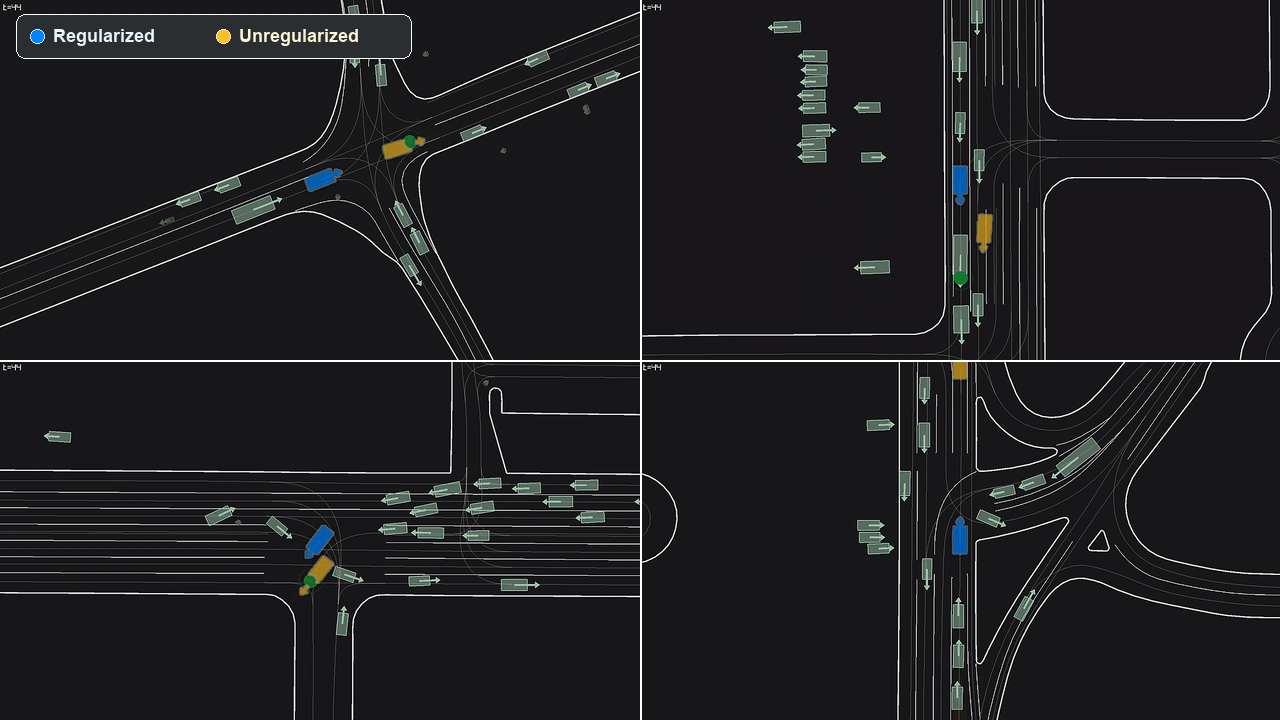
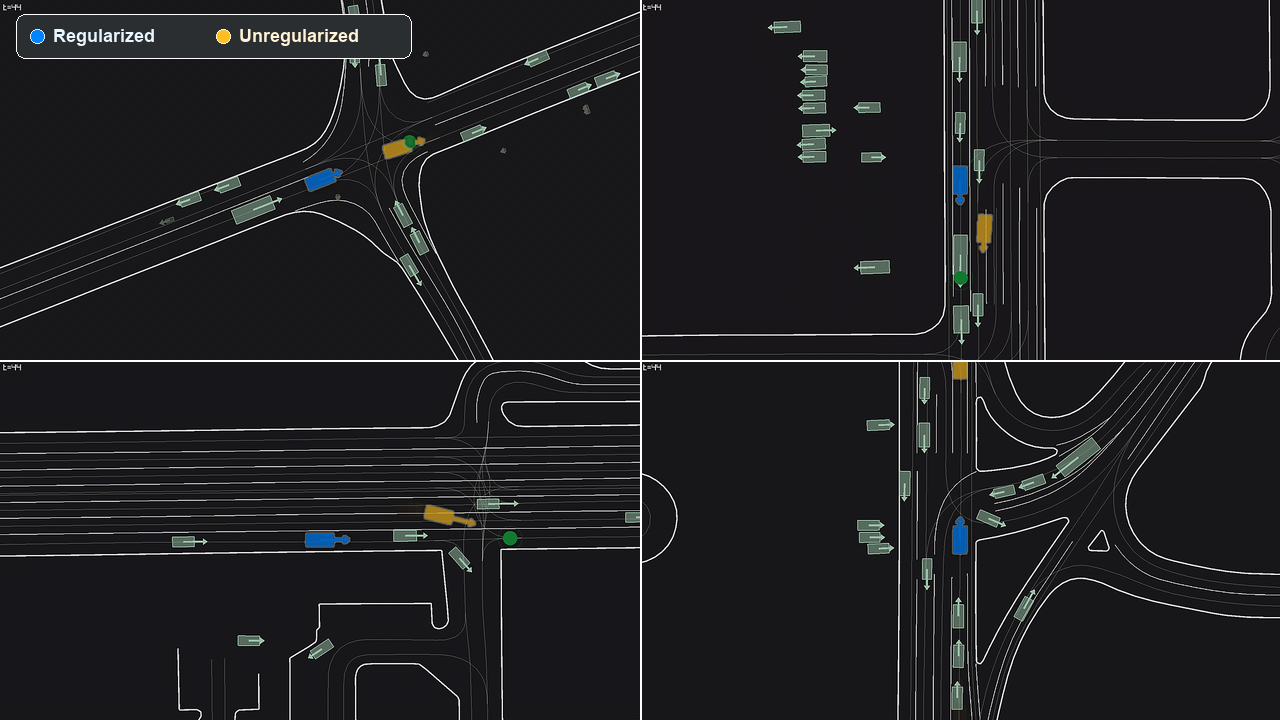
Expand rollout overlays and add paper figure exports

diff --git a/index.html b/index.html
@@ -89,8 +89,17 @@
         <div class="section-heading">
           <p class="eyebrow">Rollouts</p>
           <div>
-            <div class="media-title-row">
-              <h2>Overlay rollouts compare regularized and unregularized behavior in the same view.</h2>
+            <p class="media-explainer">
+              These videos align paired held-out human-replay scenarios so the
+              regularized policy and unregularized policy can be compared in a
+              shared camera view. In each rollout, the learned ego agent is
+              goal-conditioned: the blue vehicle is controlled by the policy,
+              the green circle marks its goal, and the other green vehicles
+              replay recorded human trajectories. Both policies use the same
+              minimal reward: +1 when the goal indicator I[goal] is true, and
+              -1 for off-road or collision events.
+            </p>
+            <div class="media-actions">
               <button
                 class="rollout-toggle"
                 type="button"
@@ -103,21 +112,11 @@
                 <span data-collapse-label>View paired GIF comparisons</span>
               </button>
             </div>
-            <p class="media-explainer">
-              These videos align paired held-out human-replay scenarios so the
-              regularized policy and unregularized policy can be compared in a
-              shared camera view. In each rollout, the learned ego agent is
-              goal-conditioned: the blue vehicle is controlled by the policy,
-              the green circle marks its goal, and the other green vehicles
-              replay recorded human trajectories. Both policies use the same
-              minimal reward: +1 when the goal indicator I[goal] is true, and
-              -1 for off-road or collision events.
-            </p>
           </div>
         </div>
 
-        <div class="overlay-rollout-showcase" aria-label="Aligned rollout overlay videos">
-          <div class="overlay-video-grid" aria-label="Single-scene aligned overlays">
+        <div class="overlay-rollout-showcase" aria-label="Aligned policy videos">
+          <div class="overlay-video-grid" aria-label="Single-scene aligned policy comparisons">
             <figure class="overlay-card">
               <video
                 src="assets/overlay-rollouts/rollout-overlay-312.mp4"
@@ -128,7 +127,7 @@
                 playsinline
                 controls
               ></video>
-              <figcaption>Example 312: cross-traffic negotiation.</figcaption>
+              <figcaption>Cross-traffic negotiation.</figcaption>
             </figure>
             <figure class="overlay-card">
               <video
@@ -140,7 +139,7 @@
                 playsinline
                 controls
               ></video>
-              <figcaption>Example 420: dense queue interaction.</figcaption>
+              <figcaption>Dense queue interaction.</figcaption>
             </figure>
             <figure class="overlay-card">
               <video
@@ -152,7 +151,7 @@
                 playsinline
                 controls
               ></video>
-              <figcaption>Example 460: waiting in traffic.</figcaption>
+              <figcaption>Waiting in traffic.</figcaption>
             </figure>
             <figure class="overlay-card">
               <video
@@ -164,7 +163,55 @@
                 playsinline
                 controls
               ></video>
-              <figcaption>Example 102: awkward behavior avoided.</figcaption>
+              <figcaption>Awkward behavior avoided.</figcaption>
+            </figure>
+            <figure class="overlay-card">
+              <video
+                src="assets/overlay-rollouts/rollout-overlay-244.mp4"
+                poster="assets/overlay-rollouts/rollout-overlay-244.png"
+                autoplay
+                muted
+                loop
+                playsinline
+                controls
+              ></video>
+              <figcaption>Room left around replayed traffic.</figcaption>
+            </figure>
+            <figure class="overlay-card">
+              <video
+                src="assets/overlay-rollouts/rollout-overlay-300.mp4"
+                poster="assets/overlay-rollouts/rollout-overlay-300.png"
+                autoplay
+                muted
+                loop
+                playsinline
+                controls
+              ></video>
+              <figcaption>Measured progress near the goal.</figcaption>
+            </figure>
+            <figure class="overlay-card">
+              <video
+                src="assets/overlay-rollouts/rollout-overlay-380.mp4"
+                poster="assets/overlay-rollouts/rollout-overlay-380.png"
+                autoplay
+                muted
+                loop
+                playsinline
+                controls
+              ></video>
+              <figcaption>Cautious timing through a busy interaction.</figcaption>
+            </figure>
+            <figure class="overlay-card">
+              <video
+                src="assets/overlay-rollouts/rollout-overlay-792.mp4"
+                poster="assets/overlay-rollouts/rollout-overlay-792.png"
+                autoplay
+                muted
+                loop
+                playsinline
+                controls
+              ></video>
+              <figcaption>Patient interaction around nearby vehicles.</figcaption>
             </figure>
           </div>
         </div>
@@ -174,15 +221,15 @@
             <div class="comparison-pair">
               <figure class="comparison-panel">
                 <span class="comparison-label comparison-label-spiced">Regularized</span>
-                <img src="comparison_selected_2/312_reg.gif" alt="Regularized policy in paired example 312.">
+                <img src="comparison_selected_2/312_reg.gif" alt="Regularized policy in paired rollout.">
               </figure>
               <figure class="comparison-panel">
                 <span class="comparison-label comparison-label-unreg">Unregularized</span>
-                <img src="comparison_selected_2/312_unreg.gif" alt="Unregularized policy in paired example 312.">
+                <img src="comparison_selected_2/312_unreg.gif" alt="Unregularized policy in paired rollout.">
               </figure>
             </div>
             <div class="comparison-body">
-              <p class="comparison-kicker">Example 312</p>
+              <p class="comparison-kicker">Paired rollout</p>
               <h3>Negotiating cross traffic</h3>
               <p>Regularized self-play keeps a more legible path through the interaction, while the unregularized policy presses more directly toward the goal.</p>
             </div>
@@ -192,15 +239,15 @@
             <div class="comparison-pair">
               <figure class="comparison-panel">
                 <span class="comparison-label comparison-label-spiced">Regularized</span>
-                <img src="comparison_selected_2/420_reg.gif" alt="Regularized policy in paired example 420.">
+                <img src="comparison_selected_2/420_reg.gif" alt="Regularized policy in paired rollout.">
               </figure>
               <figure class="comparison-panel">
                 <span class="comparison-label comparison-label-unreg">Unregularized</span>
-                <img src="comparison_selected_2/420_unreg.gif" alt="Unregularized policy in paired example 420.">
+                <img src="comparison_selected_2/420_unreg.gif" alt="Unregularized policy in paired rollout.">
               </figure>
             </div>
             <div class="comparison-body">
-              <p class="comparison-kicker">Example 420</p>
+              <p class="comparison-kicker">Paired rollout</p>
               <h3>Dense queue interaction</h3>
               <p>The regularized policy stays with the flow of replayed vehicles; the unregularized policy is less patient in the same scene.</p>
             </div>
@@ -210,15 +257,15 @@
             <div class="comparison-pair">
               <figure class="comparison-panel">
                 <span class="comparison-label comparison-label-spiced">Regularized</span>
-                <img src="comparison_selected_2/460_reg.gif" alt="Regularized policy in paired example 460.">
+                <img src="comparison_selected_2/460_reg.gif" alt="Regularized policy in paired rollout.">
               </figure>
               <figure class="comparison-panel">
                 <span class="comparison-label comparison-label-unreg">Unregularized</span>
-                <img src="comparison_selected_2/460_unreg.gif" alt="Unregularized policy in paired example 460.">
+                <img src="comparison_selected_2/460_unreg.gif" alt="Unregularized policy in paired rollout.">
               </figure>
             </div>
             <div class="comparison-body">
-              <p class="comparison-kicker">Example 460</p>
+              <p class="comparison-kicker">Paired rollout</p>
               <h3>Waiting in traffic</h3>
               <p>With the human-data anchor, the ego vehicle is more willing to wait instead of exploiting every narrow opening.</p>
             </div>
@@ -228,15 +275,15 @@
             <div class="comparison-pair">
               <figure class="comparison-panel">
                 <span class="comparison-label comparison-label-spiced">Regularized</span>
-                <img src="comparison_selected_2/102_reg.gif" alt="Regularized policy in paired example 102.">
+                <img src="comparison_selected_2/102_reg.gif" alt="Regularized policy in paired rollout.">
               </figure>
               <figure class="comparison-panel">
                 <span class="comparison-label comparison-label-unreg">Unregularized</span>
-                <img src="comparison_selected_2/102_unreg.gif" alt="Unregularized policy in paired example 102.">
+                <img src="comparison_selected_2/102_unreg.gif" alt="Unregularized policy in paired rollout.">
               </figure>
             </div>
             <div class="comparison-body">
-              <p class="comparison-kicker">Example 102</p>
+              <p class="comparison-kicker">Paired rollout</p>
               <h3>Awkward behavior avoided</h3>
               <p>The unregularized rollout can avoid impact while still behaving awkwardly; regularized self-play produces a smoother interaction.</p>
             </div>
@@ -246,15 +293,15 @@
             <div class="comparison-pair">
               <figure class="comparison-panel">
                 <span class="comparison-label comparison-label-spiced">Regularized</span>
-                <img src="comparison_selected_2/297_reg.gif" alt="Regularized policy in paired example 297.">
+                <img src="comparison_selected_2/297_reg.gif" alt="Regularized policy in paired rollout.">
               </figure>
               <figure class="comparison-panel">
                 <span class="comparison-label comparison-label-unreg">Unregularized</span>
-                <img src="comparison_selected_2/297_unreg.gif" alt="Unregularized policy in paired example 297.">
+                <img src="comparison_selected_2/297_unreg.gif" alt="Unregularized policy in paired rollout.">
               </figure>
             </div>
             <div class="comparison-body">
-              <p class="comparison-kicker">Example 297</p>
+              <p class="comparison-kicker">Paired rollout</p>
               <h3>Cautious merge timing</h3>
               <p>The regularized policy leaves more time around nearby replayed vehicles, while the unregularized rollout takes a tighter interaction.</p>
             </div>
@@ -264,15 +311,15 @@
             <div class="comparison-pair">
               <figure class="comparison-panel">
                 <span class="comparison-label comparison-label-spiced">Regularized</span>
-                <img src="comparison_selected_2/300_reg.gif" alt="Regularized policy in paired example 300.">
+                <img src="comparison_selected_2/300_reg.gif" alt="Regularized policy in paired rollout.">
               </figure>
               <figure class="comparison-panel">
                 <span class="comparison-label comparison-label-unreg">Unregularized</span>
-                <img src="comparison_selected_2/300_unreg.gif" alt="Unregularized policy in paired example 300.">
+                <img src="comparison_selected_2/300_unreg.gif" alt="Unregularized policy in paired rollout.">
               </figure>
             </div>
             <div class="comparison-body">
-              <p class="comparison-kicker">Example 300</p>
+              <p class="comparison-kicker">Paired rollout</p>
               <h3>Social pacing</h3>
               <p>The paired replay shows a more measured regularized trajectory compared with the unregularized policy's more direct progress.</p>
             </div>
@@ -282,15 +329,15 @@
             <div class="comparison-pair">
               <figure class="comparison-panel">
                 <span class="comparison-label comparison-label-spiced">Regularized</span>
-                <img src="comparison_selected_2/382_reg.gif" alt="Regularized policy in paired example 382.">
+                <img src="comparison_selected_2/382_reg.gif" alt="Regularized policy in paired rollout.">
               </figure>
               <figure class="comparison-panel">
                 <span class="comparison-label comparison-label-unreg">Unregularized</span>
-                <img src="comparison_selected_2/382_unreg.gif" alt="Unregularized policy in paired example 382.">
+                <img src="comparison_selected_2/382_unreg.gif" alt="Unregularized policy in paired rollout.">
               </figure>
             </div>
             <div class="comparison-body">
-              <p class="comparison-kicker">Example 382</p>
+              <p class="comparison-kicker">Paired rollout</p>
               <h3>Social spacing</h3>
               <p>The paired replay highlights the behavioral difference behind the aggregate social-driving metrics.</p>
             </div>
@@ -300,15 +347,15 @@
             <div class="comparison-pair">
               <figure class="comparison-panel">
                 <span class="comparison-label comparison-label-spiced">Regularized</span>
-                <img src="comparison_selected_2/244_reg.gif" alt="Regularized policy in paired example 244.">
+                <img src="comparison_selected_2/244_reg.gif" alt="Regularized policy in paired rollout.">
               </figure>
               <figure class="comparison-panel">
                 <span class="comparison-label comparison-label-unreg">Unregularized</span>
-                <img src="comparison_selected_2/244_unreg.gif" alt="Unregularized policy in paired example 244.">
+                <img src="comparison_selected_2/244_unreg.gif" alt="Unregularized policy in paired rollout.">
               </figure>
             </div>
             <div class="comparison-body">
-              <p class="comparison-kicker">Example 244</p>
+              <p class="comparison-kicker">Paired rollout</p>
               <h3>Gap selection</h3>
               <p>The regularized policy leaves more room around replayed traffic, while the unregularized rollout takes a tighter, more direct line.</p>
             </div>
@@ -318,15 +365,15 @@
             <div class="comparison-pair">
               <figure class="comparison-panel">
                 <span class="comparison-label comparison-label-spiced">Regularized</span>
-                <img src="comparison_selected_2/792_reg.gif" alt="Regularized policy in paired example 792.">
+                <img src="comparison_selected_2/792_reg.gif" alt="Regularized policy in paired rollout.">
               </figure>
               <figure class="comparison-panel">
                 <span class="comparison-label comparison-label-unreg">Unregularized</span>
-                <img src="comparison_selected_2/792_unreg.gif" alt="Unregularized policy in paired example 792.">
+                <img src="comparison_selected_2/792_unreg.gif" alt="Unregularized policy in paired rollout.">
               </figure>
             </div>
             <div class="comparison-body">
-              <p class="comparison-kicker">Example 792</p>
+              <p class="comparison-kicker">Paired rollout</p>
               <h3>Patient interaction</h3>
               <p>The paired replay shows the regularized agent preserving a more cautious interaction pattern around nearby human-driven vehicles.</p>
             </div>
@@ -439,15 +486,15 @@
               <div class="comparison-pair">
                 <figure class="comparison-panel">
                   <span class="comparison-label comparison-label-spiced">Regularized</span>
-                  <img src="comparison_selected_2/210_reg.gif" alt="Regularized policy failure comparison in example 210.">
+                  <img src="comparison_selected_2/210_reg.gif" alt="Regularized policy failure comparison.">
                 </figure>
                 <figure class="comparison-panel">
                   <span class="comparison-label comparison-label-unreg">Unregularized</span>
-                  <img src="comparison_selected_2/210_unreg.gif" alt="Unregularized policy failure comparison in example 210.">
+                  <img src="comparison_selected_2/210_unreg.gif" alt="Unregularized policy failure comparison.">
                 </figure>
               </div>
               <div class="comparison-body">
-                <p class="comparison-kicker">Failure example 210</p>
+                <p class="comparison-kicker">Failure comparison</p>
                 <h3>Different collisions in the same scene</h3>
                 <p>Both policies fail in replay, but the paired rollout shows regularized agents display more cautious behavior around other agents.</p>
               </div>
@@ -457,15 +504,15 @@
               <div class="comparison-pair">
                 <figure class="comparison-panel">
                   <span class="comparison-label comparison-label-spiced">Regularized</span>
-                  <img src="comparison_selected_2/607_reg.gif" alt="Regularized policy failure comparison in example 607.">
+                  <img src="comparison_selected_2/607_reg.gif" alt="Regularized policy failure comparison.">
                 </figure>
                 <figure class="comparison-panel">
                   <span class="comparison-label comparison-label-unreg">Unregularized</span>
-                  <img src="comparison_selected_2/607_unreg.gif" alt="Unregularized policy failure comparison in example 607.">
+                  <img src="comparison_selected_2/607_unreg.gif" alt="Unregularized policy failure comparison.">
                 </figure>
               </div>
               <div class="comparison-body">
-                <p class="comparison-kicker">Failure example 607</p>
+                <p class="comparison-kicker">Failure comparison</p>
                 <h3>Representative replay failure</h3>
                 <p>This pair illustrates a remaining failure mode under human replay, including cases where the controlled vehicle is contacted from behind.</p>
               </div>

diff --git a/styles.css b/styles.css
@@ -525,9 +525,15 @@ button {
   outline-offset: 4px;
 }
 
+.media-actions {
+  display: flex;
+  justify-content: flex-start;
+  margin-top: 14px;
+}
+
 .media-explainer {
   max-width: 820px;
-  margin: 18px 0 0;
+  margin: 0;
   color: #323c42;
   font-size: 1.05rem;
 }
@@ -1101,6 +1107,12 @@ button {
   .lede p,
   .abstract-copy p {
     font-size: 1rem;
+  }
+
+  .media-explainer {
+    font-size: 0.97rem;
+    line-height: 1.55;
+    overflow-wrap: break-word;
   }
 
   .hero-actions {